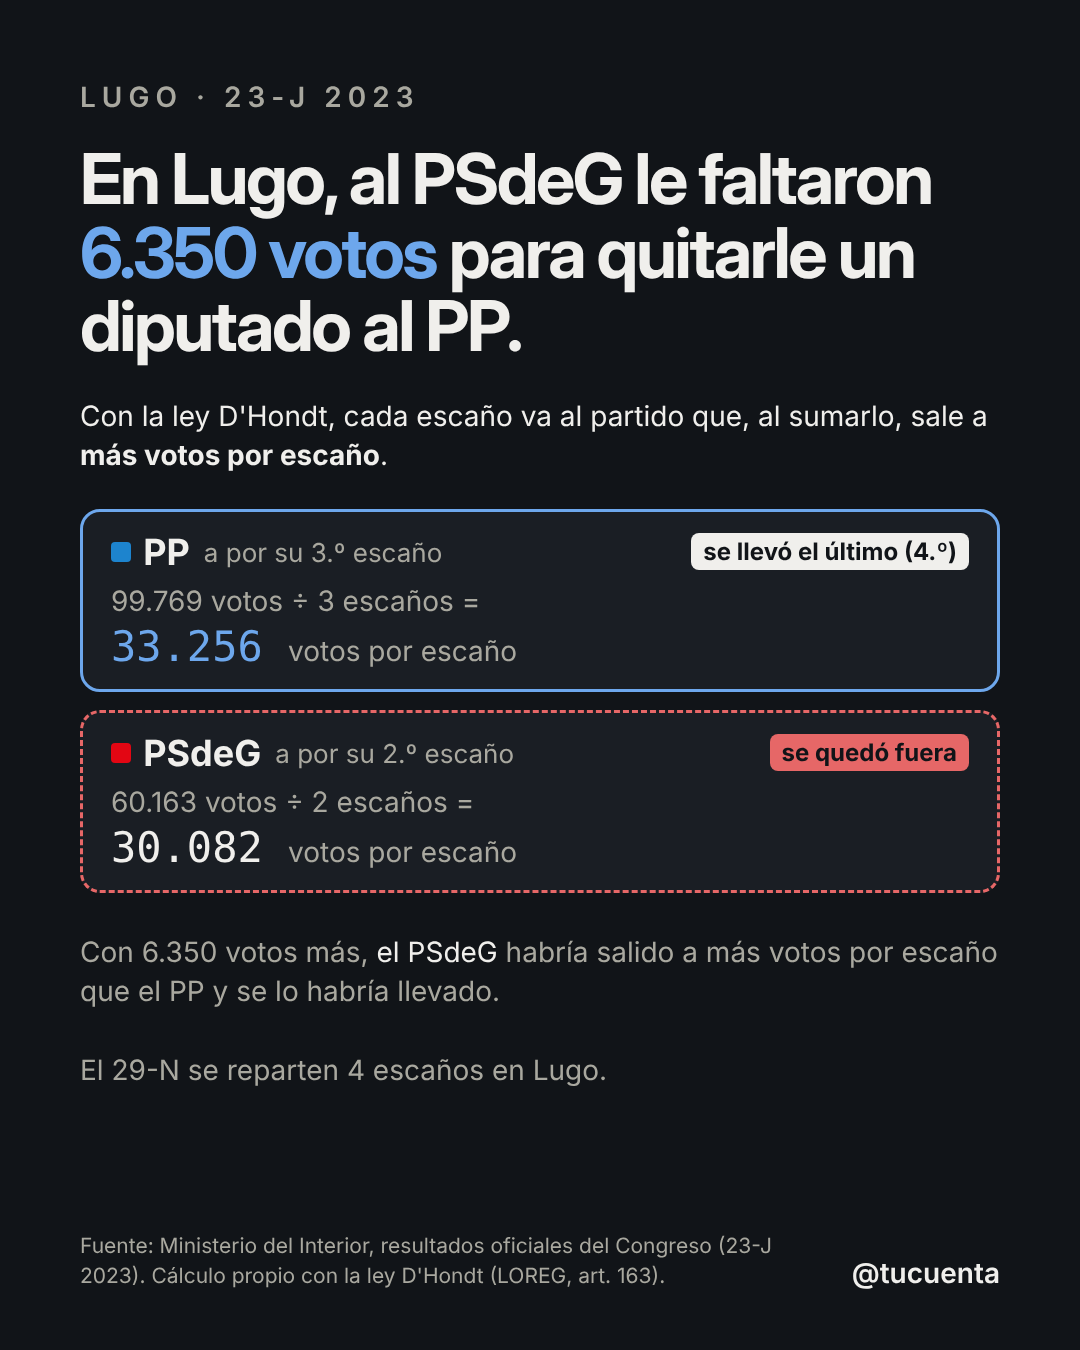
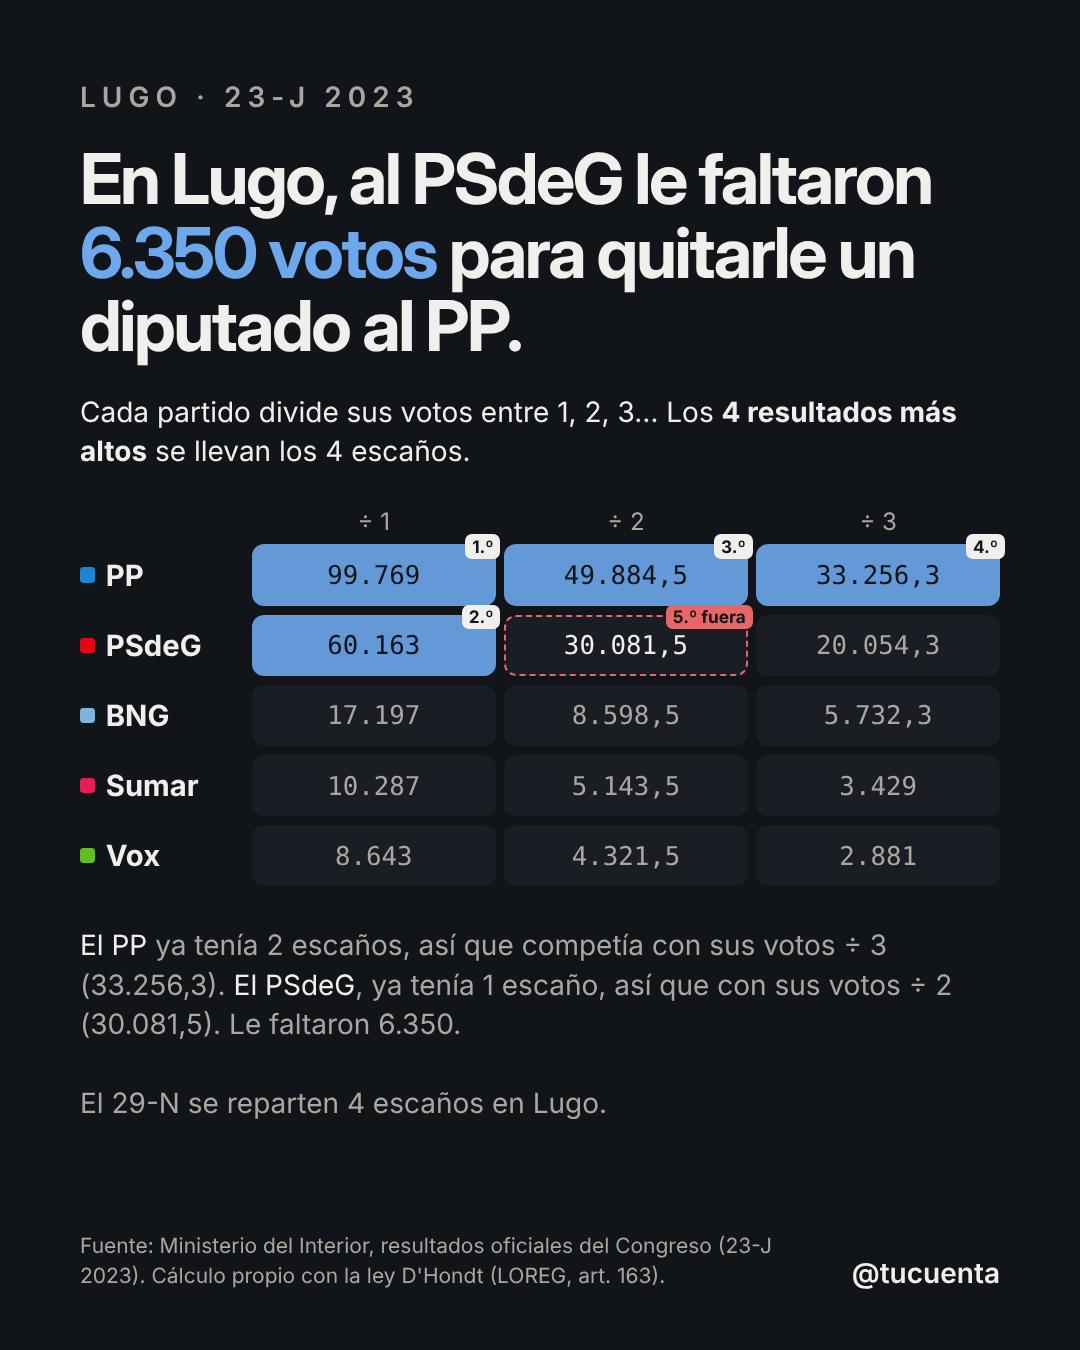
Show the full D'Hondt quotient table in the closest-seat card where it fits
Claude-Session: https://claude.ai/code/session_01YN1sbJ68gMm1TyXFZ6PVcy

diff --git a/motion-demo/src/voto/DhondtTable.tsx b/motion-demo/src/voto/DhondtTable.tsx
@@ -2,6 +2,7 @@
 import { interpolate } from "remotion";
 import circs from "./congreso2023/circunscripciones.json";
 import grupos from "./congreso2023/grupos.json";
+import provs from "./congreso2023/provincias.json";
 import { FONT, MONO } from "../theme";
 import { fmt } from "./fmt";
 import { V } from "./theme";
@@ -11,16 +12,23 @@ const G = grupos as unknown as Record<string, { color: string }>;
 
 export type Cell = { party: number; div: number; q: number; rank: number };
 
+// Ranks every quotient of every eligible candidature (so hidden rows cannot skew them), then keeps the
+// `rows` most voted and the first `cols` divisors for display.
 export const dhondt = (code: string, rows = 5, cols = 3) => {
   const c = circs.circunscripciones.find((x) => x.codigoINE === code)!;
   const valid = c.votosCandidaturas + c.votosBlanco;
-  const parties = c.candidaturas
-    .filter((p) => p.votos * 100 >= 3 * valid)
-    .sort((x, y) => y.votos - x.votos)
-    .slice(0, rows)
-    .map((p) => ({ name: SHORT[p.siglas] ?? p.siglas, votes: p.votos, color: G[p.cabeceraNacional]?.color ?? V.dim }));
-  const cells: Cell[] = parties.flatMap((p, i) => Array.from({ length: cols }, (_, d) => ({ party: i, div: d + 1, q: p.votes / (d + 1), rank: 0 })));
-  [...cells].sort((x, y) => y.q - x.q).forEach((cell, i) => (cell.rank = i + 1));
+  const names = Object.fromEntries((provs.provincias as Record<string, { partidos: { codigo: string; nombre: string }[] }>)[code].partidos.map((p) => [p.codigo, p.nombre]));
+  const elig = c.candidaturas.filter((p) => p.votos * 100 >= 3 * valid).sort((x, y) => y.votos - x.votos);
+  const rank = new Map<string, number>();
+  elig
+    .flatMap((p) => Array.from({ length: c.escanos + 1 }, (_, d) => ({ key: `${p.codigo}/${d + 1}`, q: p.votos / (d + 1), v: p.votos })))
+    .sort((x, y) => y.q - x.q || y.v - x.v)
+    .forEach((x, i) => rank.set(x.key, i + 1));
+  const shown = elig.slice(0, rows);
+  const parties = shown.map((p) => ({ name: names[p.codigo] ?? SHORT[p.siglas] ?? p.siglas, votes: p.votos, color: G[p.cabeceraNacional]?.color ?? V.dim }));
+  const cells: Cell[] = shown.flatMap((p, i) =>
+    Array.from({ length: cols }, (_, d) => ({ party: i, div: d + 1, q: p.votos / (d + 1), rank: rank.get(`${p.codigo}/${d + 1}`) ?? Infinity })),
+  );
   return { seats: c.escanos, parties, cells, cols };
 };
 
@@ -32,8 +40,9 @@ export const qfmt = (q: number) => {
 };
 
 // `lit(rank)` returns 0..1: how far that seat's highlight has progressed.
-export const DhondtTable = ({ code, lit, scale = 1 }: { code: string; lit: (rank: number) => number; scale?: number }) => {
-  const { seats, parties, cells, cols } = dhondt(code);
+// `out` marks the quotient that missed the last seat (default: the first one after it).
+export const DhondtTable = ({ code, lit, scale = 1, rows, cols: nCols, out }: { code: string; lit: (rank: number) => number; scale?: number; rows?: number; cols?: number; out?: { votes: number; div: number } }) => {
+  const { seats, parties, cells, cols } = dhondt(code, rows, nCols);
   const s = (n: number) => n * scale;
   return (
     <div style={{ fontFamily: FONT }}>
@@ -45,14 +54,14 @@ export const DhondtTable = ({ code, lit, scale = 1 }: { code: string; lit: (rank
           </div>
         ))}
         {parties.map((p, i) => (
-          <Row key={p.name} name={p.name} color={p.color} cells={cells.filter((c) => c.party === i)} seats={seats} lit={lit} s={s} />
+          <Row key={p.name} name={p.name} color={p.color} cells={cells.filter((c) => c.party === i)} seats={seats} lit={lit} s={s} isOut={(c) => (out ? p.votes === out.votes && c.div === out.div : c.rank === seats + 1)} />
         ))}
       </div>
     </div>
   );
 };
 
-const Row = ({ name, color, cells, seats, lit, s }: { name: string; color: string; cells: Cell[]; seats: number; lit: (r: number) => number; s: (n: number) => number }) => (
+const Row = ({ name, color, cells, seats, lit, s, isOut }: { name: string; color: string; cells: Cell[]; seats: number; lit: (r: number) => number; s: (n: number) => number; isOut: (c: Cell) => boolean }) => (
   <>
     <div style={{ fontSize: s(34), fontWeight: 700, display: "flex", alignItems: "center", gap: s(12) }}>
       <span style={{ width: s(18), height: s(18), borderRadius: s(4), background: color }} />
@@ -61,7 +70,7 @@ const Row = ({ name, color, cells, seats, lit, s }: { name: string; color: strin
     {cells.map((c) => {
       const t = lit(c.rank);
       const win = c.rank <= seats;
-      const next = c.rank === seats + 1;
+      const next = isOut(c);
       return (
         <div
           key={c.div}
@@ -94,7 +103,7 @@ const Row = ({ name, color, cells, seats, lit, s }: { name: string; color: strin
                 opacity: interpolate(t, [0.4, 1], [0, 1], { extrapolateLeft: "clamp", extrapolateRight: "clamp" }),
               }}
             >
-              {next ? `${seats + 1}.º fuera` : `${c.rank}.º`}
+              {next ? (c.rank === seats + 1 ? `${c.rank}.º fuera` : "fuera") : `${c.rank}.º`}
             </span>
           )}
         </div>

diff --git a/motion-demo/src/voto/provincia.tsx b/motion-demo/src/voto/provincia.tsx
@@ -6,7 +6,7 @@ import { DISPLAY, FONT, MONO } from "../theme";
 import P from "./congreso2023/provincias.json";
 import { Frame, Headline, HANDLE, SRC, Seats } from "./cards";
 import { Note, SRC23, pct } from "./cards2";
-import { qfmt } from "./DhondtTable";
+import { DhondtTable, qfmt } from "./DhondtTable";
 import { fmt } from "./fmt";
 import { V } from "./theme";
 
@@ -37,6 +37,7 @@ const party = (p: Prov, nombre: string) => p.partidos.find((x) => x.nombre === n
 // "a" + "el PP" -> "al PP"; "de" + "el PP" -> "del PP"; "la CUP"/"Vox" keep their form.
 const con = (prep: "a" | "de", x: Partido) => (x.art === "el" ? `${prep}l ${x.nombre}` : `${prep} ${x.art ? x.art + " " : ""}${x.nombre}`);
 const art = (x: Partido) => (x.art ? `${x.art} ${x.nombre}` : x.nombre);
+const Cap = (x: Partido) => art(x)[0].toUpperCase() + art(x).slice(1);
 const dip = (n: number) => `${n} ${n === 1 ? "diputado" : "diputados"}`;
 const esc = (n: number) => `${n} ${n === 1 ? "escaño" : "escaños"}`;
 const color = (x: Partido) => x.color ?? V.dim;
@@ -119,6 +120,11 @@ export const ProvEscanos = ({ code, marca = HANDLE }: KitProps) => {
   );
 };
 
+// "ya tenía 1 escaño, así que competía con sus votos ÷ 2 (31.625,5)" / "con sus votos enteros (31.341)"
+const siguiente = (q: Cociente) =>
+  q.divisor === 1
+    ? `competía con sus votos enteros (${qfmt(q.cociente)})`
+    : `ya tenía ${q.divisor - 1} ${q.divisor === 2 ? "escaño" : "escaños"}, así que competía con sus votos ÷ ${q.divisor} (${qfmt(q.cociente)})`;
 const nth = (n: number) => (n === 1 ? "primer" : `${n}.º`);
 // Votes per seat if the party takes this seat (the D'Hondt quotient); whole votes unless rounding would hide the gap.
 const porEscano = (q: number, other: number) => (Math.round(q) === Math.round(other) ? qfmt(q) : fmt(q));
@@ -147,9 +153,26 @@ const AjustadoDetalle = ({ p }: { p: Prov }) => {
   const g = party(p, a.gana);
   const l = party(p, a.pierde);
   const top = [...p.partidos].sort((x, y) => y.votos - x.votos).slice(0, 4);
+  // Full quotient table when it fits (up to 6 parties × 4 divisors); otherwise votes per seat.
+  const elig = p.partidos.filter((x) => x.votos * 100 >= 3 * p.validos);
+  const need = a.duelo && { rows: Math.max(5, elig.indexOf(g) + 1, elig.indexOf(l) + 1), cols: Math.max(3, a.duelo.gana.divisor, a.duelo.pierde.divisor) };
+  const tabla = need && need.rows <= 6 && need.cols <= 4 ? need : null;
   return (
     <>
-      {a.duelo && (
+      {a.duelo && tabla && (
+        <>
+          <div style={{ fontSize: 28, lineHeight: 1.4, marginTop: 30 }}>
+            Cada partido divide sus votos entre 1, 2, 3… Los <b>{p.escanos2023} resultados más altos</b> se llevan los {esc(p.escanos2023)}.
+          </div>
+          <div style={{ marginTop: 36 }}>
+            <DhondtTable code={p.code} lit={() => 1} scale={0.86} rows={tabla.rows} cols={tabla.cols} out={{ votes: g.votos, div: a.duelo.gana.divisor }} />
+          </div>
+          <Note>
+            <span style={{ color: V.text }}>{Cap(l)}</span> {siguiente(a.duelo.pierde)}. <span style={{ color: V.text }}>{Cap(g)}</span>, {siguiente(a.duelo.gana).replace("competía ", "")}. Le faltaron {fmt(a.votos)}.
+          </Note>
+        </>
+      )}
+      {a.duelo && !tabla && (
         <>
           <div style={{ fontSize: 28, lineHeight: 1.4, marginTop: 34 }}>
             Con la ley D'Hondt, cada escaño va al partido que, al sumarlo, sale a <b>más votos por escaño</b>.
